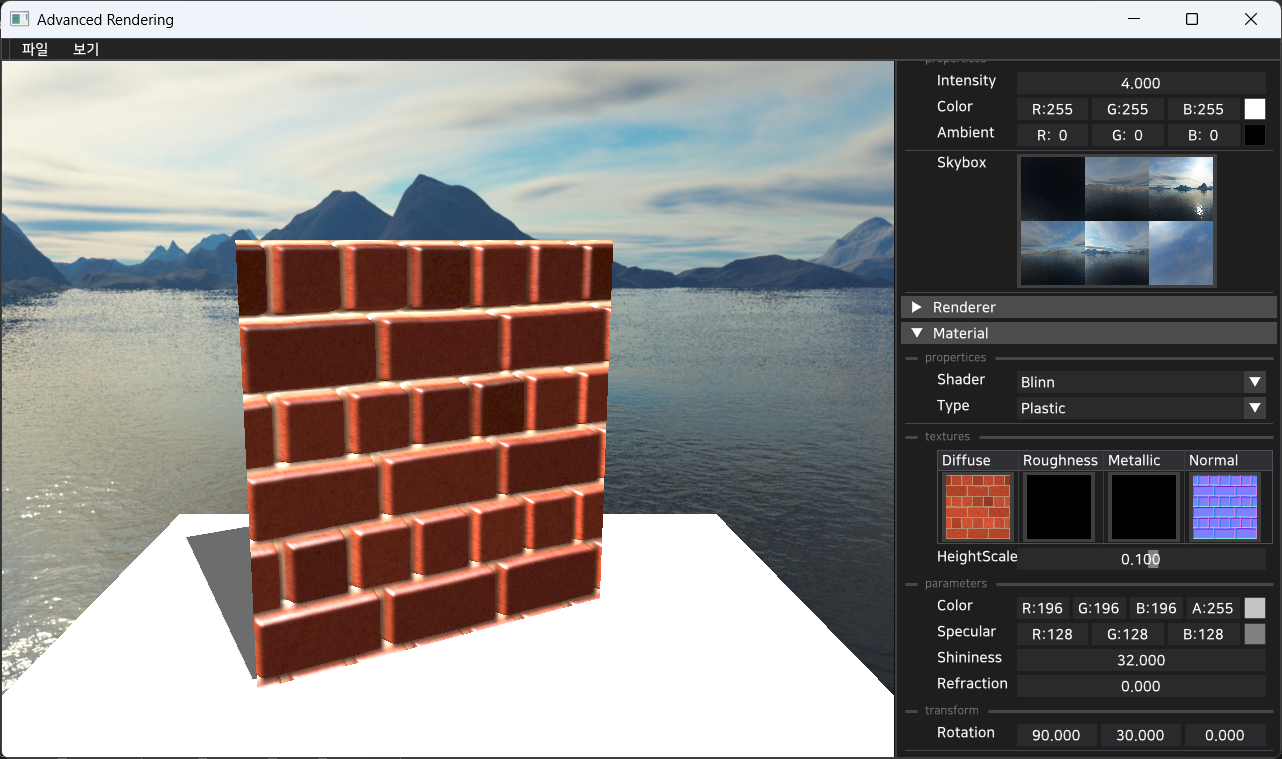
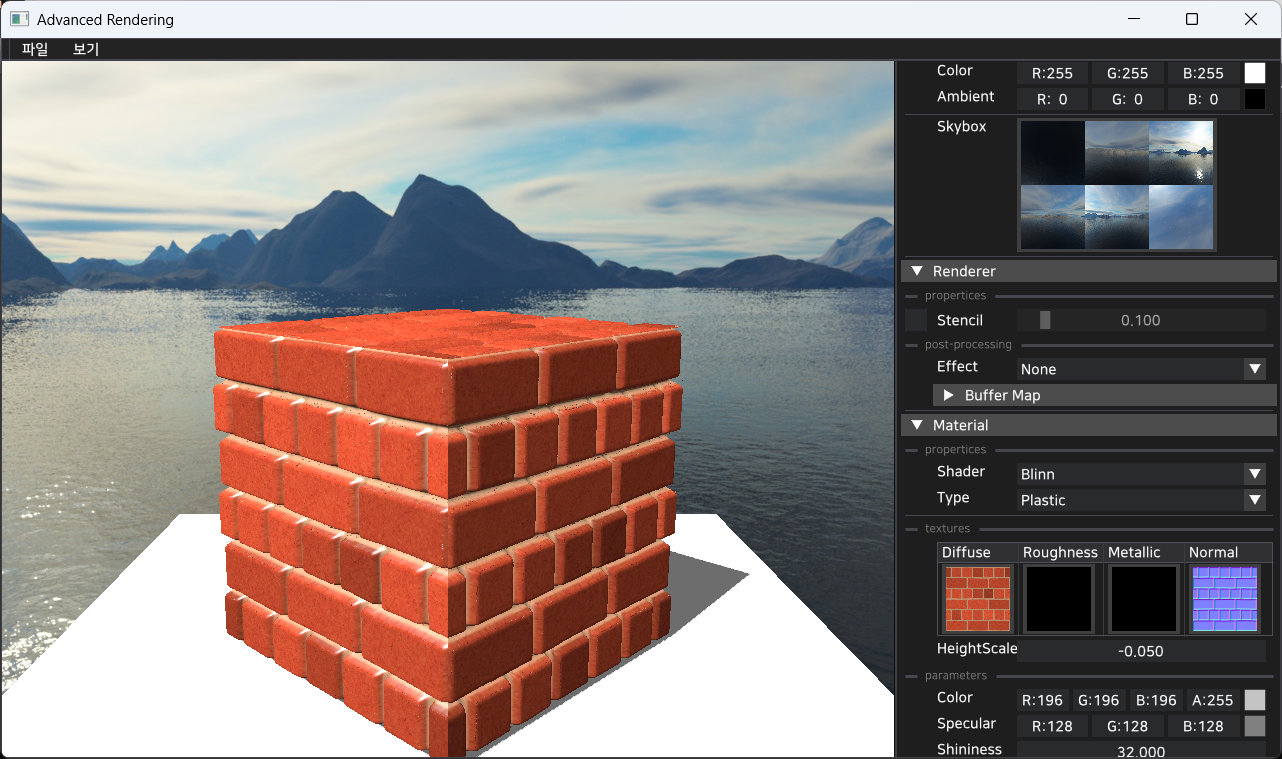
중간 마무리

diff --git a/src/renderer/private/material.cpp b/src/renderer/private/material.cpp
@@ -76,13 +76,23 @@ void OpenGLMaterial::Draw(MeshComponent* component)
     }
     if (parameter.aoTexture != nullptr)
     {
-        shader->SetFloat("heightScale", parameter.heightScale);
         shader->SetBool("bAo", true);
         GLint location = shader->GetLocation("aoTexture");
         glUniform1i(location, shaderIndex);
         glActiveTexture(GL_TEXTURE0+shaderIndex);
         parameter.aoTexture->Bind();
         shaderIndex ++;
+    }
+    if (parameter.dispTexture != nullptr)
+    {
+        shader->SetFloat("heightScale", parameter.heightScale);
+        shader->SetBool("bDisp", true);
+        GLint location = shader->GetLocation("dispTexture");
+        glUniform1i(location, shaderIndex);
+        glActiveTexture(GL_TEXTURE0+shaderIndex);
+        parameter.dispTexture->Bind();
+        shaderIndex ++;
+
     }
     if (parameter.normalTexture != nullptr)
     {
@@ -110,6 +120,7 @@ void OpenGLMaterial::UnBind()
     shader->SetBool("bRoughness", false);
     shader->SetBool("bNormal", false);
     shader->SetBool("bAo", false);
+    shader->SetBool("bDisp", false);
     shader->SetBool("bSkybox", false);
     glBindTexture(GL_TEXTURE_2D, 0);
     shader->EndProgam();
@@ -157,6 +168,14 @@ void OpenGLMaterial::AddTexture(ITexture* texture, int type)
             glUniform1i(location, 4);
             glActiveTexture(GL_TEXTURE3);
             parameter.aoTexture = texture;
+            break;
+        }
+        case 6:
+        {
+            GLint location = shader->GetLocation("dispTexture");
+            glUniform1i(location, 5);
+            glActiveTexture(GL_TEXTURE4);
+            parameter.dispTexture = texture;
             break;
         }
 

diff --git a/src/resource/private/resourceManager.cpp b/src/resource/private/resourceManager.cpp
@@ -112,11 +112,12 @@ ResourceManager::ResourceManager()
     IMaterial* ptrMaterial = standardMaterial.get();
     materials.emplace("standardMaterial", std::move(standardMaterial));
     OpenGLMaterial* mat = static_cast<OpenGLMaterial*>(ptrMaterial);
-    mat->AddTexture(ptrgangesDiffTexture, 1);
+    mat->AddTexture(ptrbrickDiffTexture, 1);
     mat->AddTexture(ptrgangesroughTexture, 2);
     mat->AddTexture(ptrgangesarmTexture, 3);
     mat->AddTexture(ptrgangesnorTexture, 4);
     mat->AddTexture(ptrgangesaoTexture, 5);
+    mat->AddTexture(ptrgangesdispTexture, 6);
     //create planeMaterial
     auto planeMaterial = std::make_unique<OpenGLMaterial>(ptrShader);
     materials.emplace("planeMaterial", std::move(planeMaterial));

diff --git a/src/renderer/public/material.hpp b/src/renderer/public/material.hpp
@@ -28,6 +28,7 @@ struct MaterialParameter
     ITexture* metallicTexture = nullptr;
     ITexture* normalTexture = nullptr;
     ITexture* aoTexture = nullptr;
+    ITexture* dispTexture = nullptr;
     //properties
     float metallicFactor = 0.0f;
     float roughnessFactor = 0.5f;
